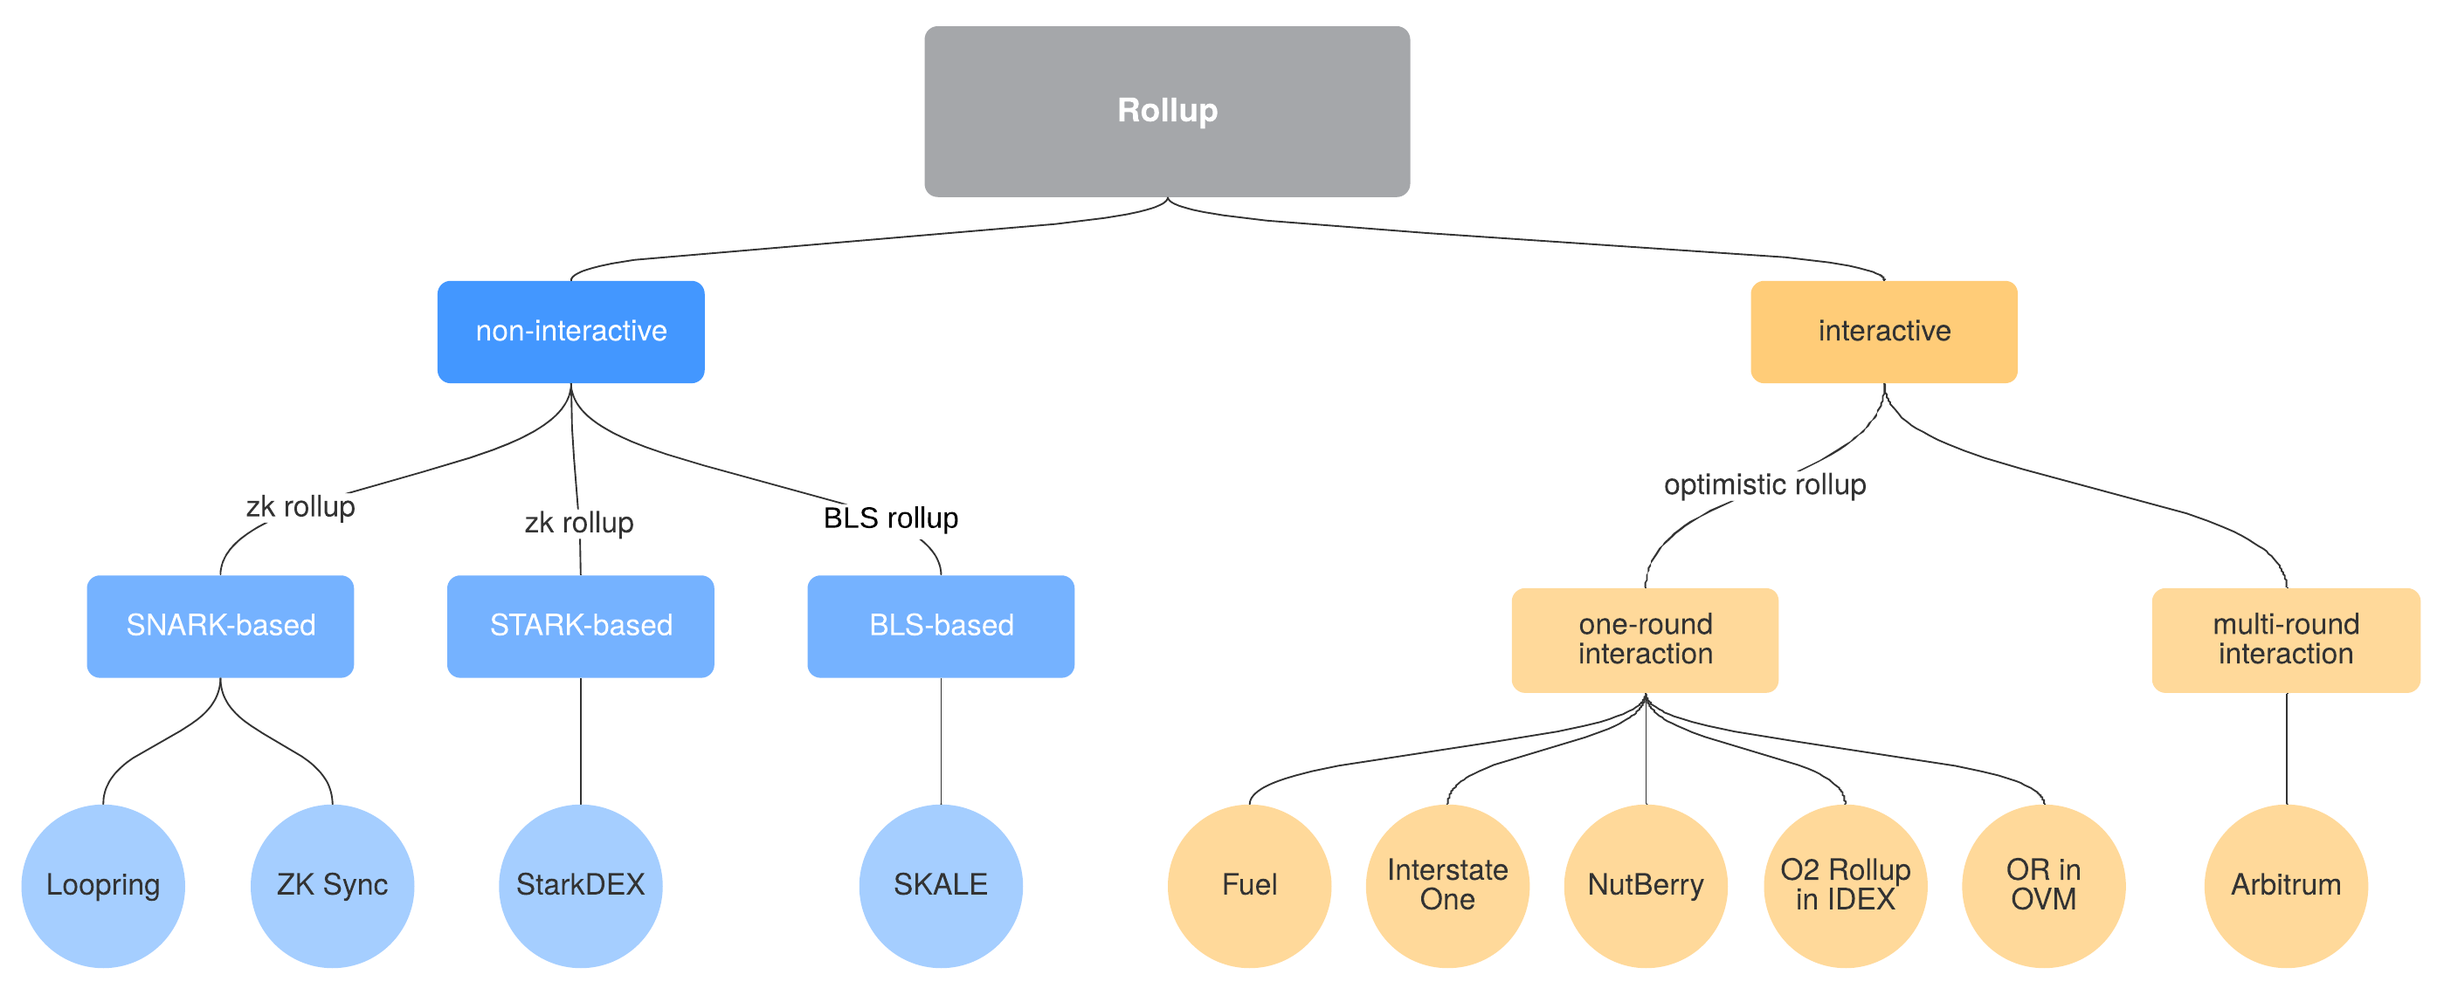
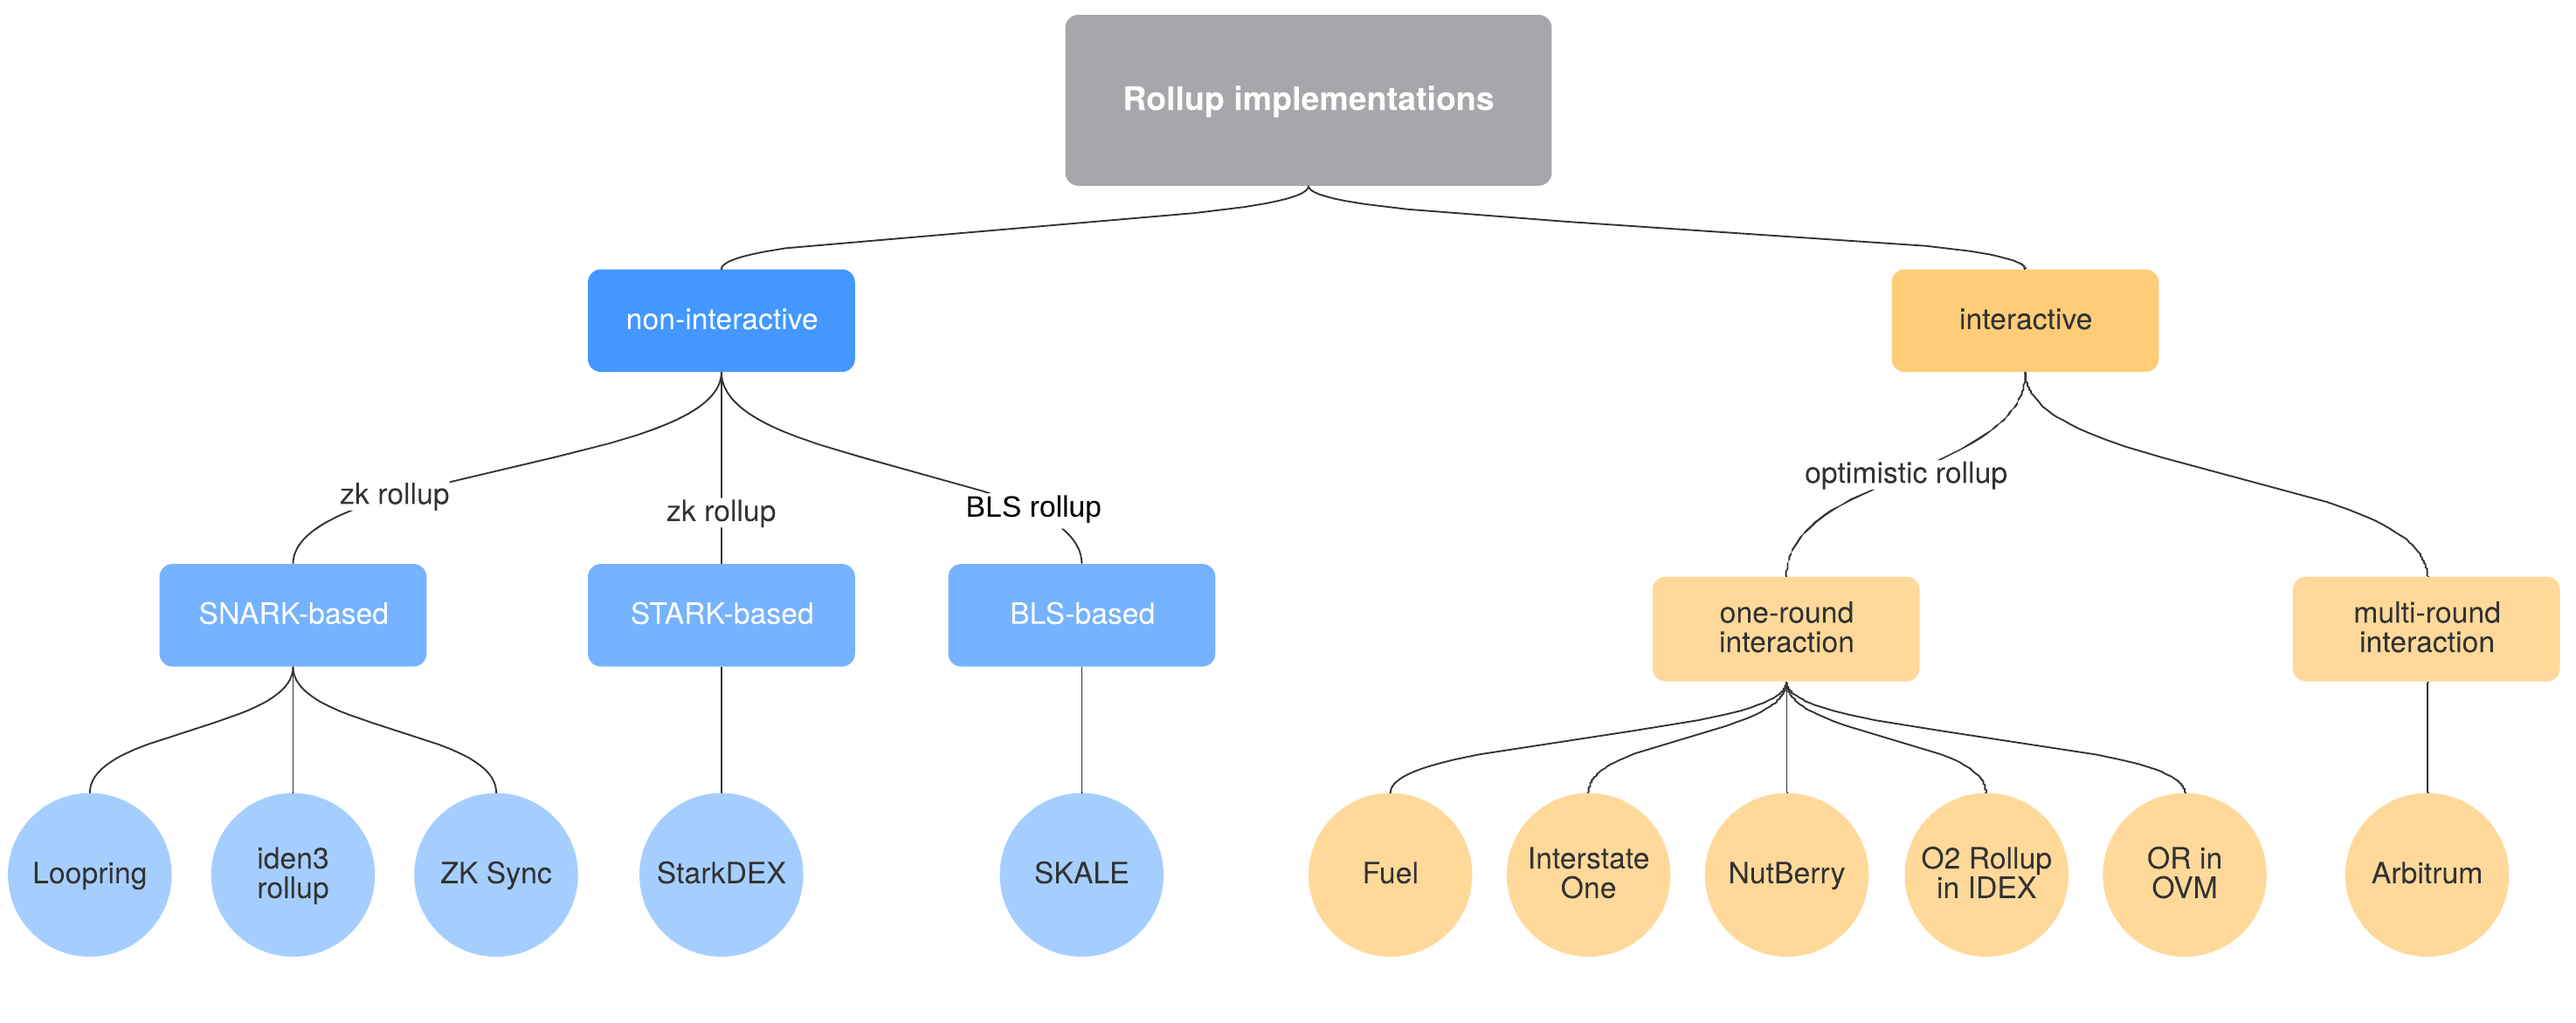
added iden3 zkrollup

diff --git a/zk-proofs-rollups.md b/zk-proofs-rollups.md
@@ -259,6 +259,9 @@ Loopring Project
 Loopring protocol 3, built on ZKR, has on-chain withdrawal requests, LRC token  
 [https://wedex.io/](https://wedex.io/) the first DEX on zkr
 
+Iden3  
+[zk-rollup](https://docs.iden3.io/#/rollup/rollup) using iden3's circom libs
+
 Matter Labs  
 [https://matter-labs.io/](https://matter-labs.io/)  
 ZK Sync, built on ZKR, also has high-priority withdrawal tx
@@ -275,7 +278,6 @@ StarkDEX, rollup on STARKs, March 2019
 
 ## General ZKP
 iden3  
-[zk-rollup](https://github.com/iden3/rollup/blob/master/doc/info.md) in js  
 [Circom](https://github.com/iden3/circom) for constructing circuits
 
 liszt (by ConsenSys)  
